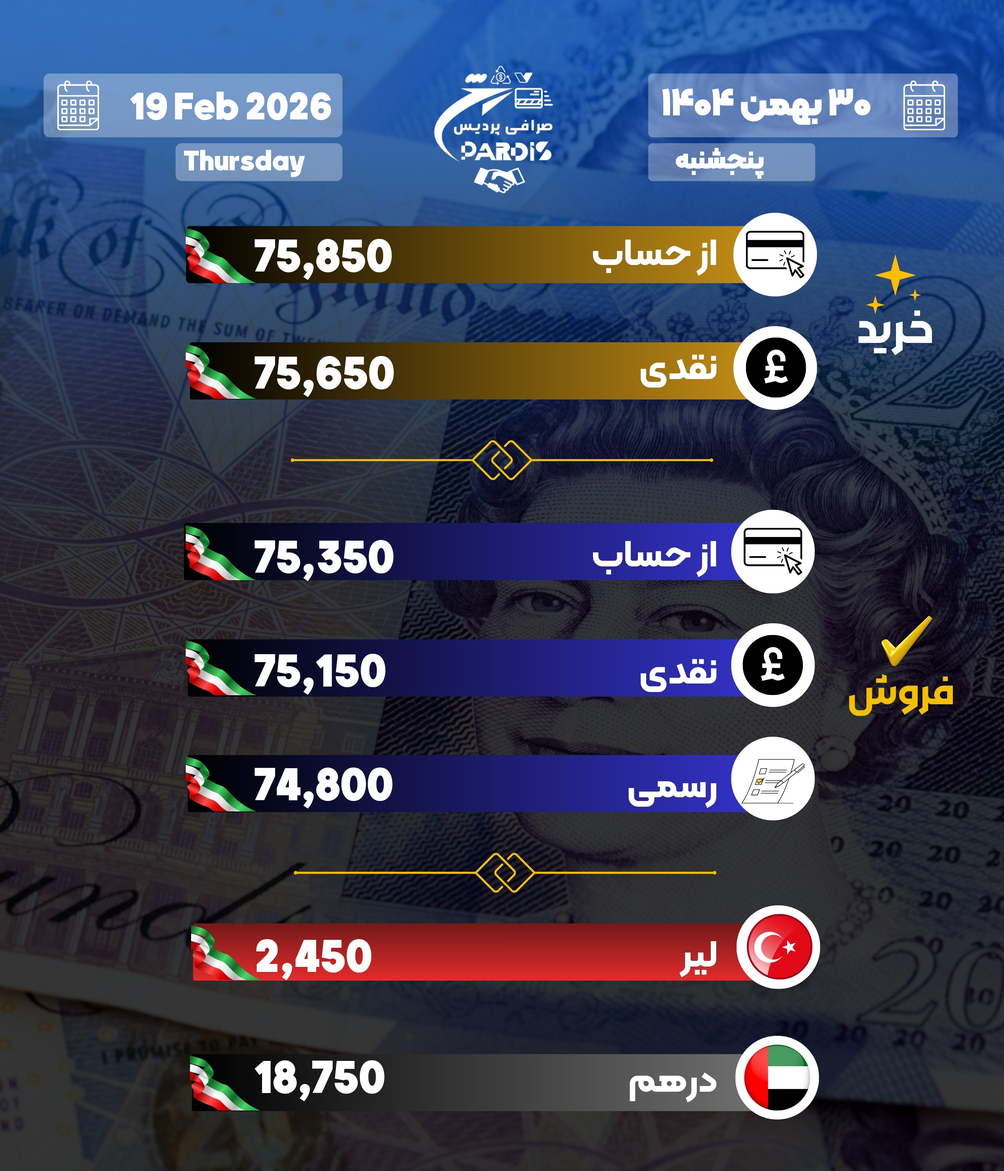
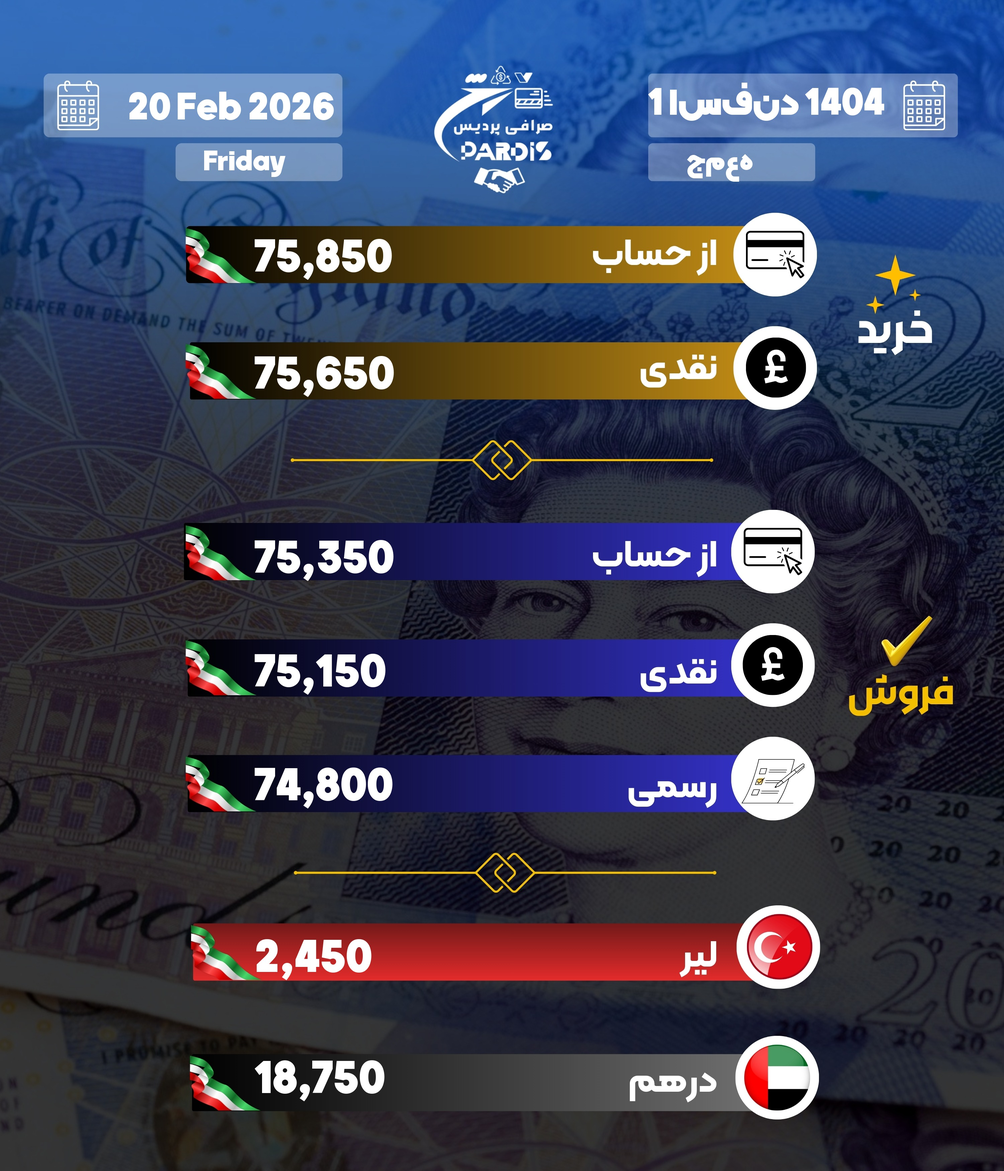
Update font settings in legacy category renderer to use Kalameh.ttf and change text color to white for improved visibility

Changed region(s): [[0.651, 0.0623, 0.899, 0.1557], [0.124, 0.0623, 0.341, 0.1246], [0.186, 0.1246, 0.31, 0.1557]]

diff --git a/price_publisher/services/legacy_category_renderer.py b/price_publisher/services/legacy_category_renderer.py
@@ -281,10 +281,10 @@ def _get_rotating_background():
 
 def _load_fonts():
     fonts = {
-        "farsi_date": ImageFont.truetype(str(FONT_ROOT / "Kalameh_farsi_thin.ttf"), 110),
-        "farsi_weekday": ImageFont.truetype(str(FONT_ROOT / "Kalameh_farsi_thin.ttf"), 80),
-        "eng_date": ImageFont.truetype(str(FONT_ROOT / "Kalameh_farsi_thin.ttf"), 110),
-        "eng_weekday": ImageFont.truetype(str(FONT_ROOT / "Kalameh_farsi_thin.ttf"), 80),
+        "farsi_date": ImageFont.truetype(str(FONT_ROOT / "Kalameh.ttf"), 110),
+        "farsi_weekday": ImageFont.truetype(str(FONT_ROOT / "Kalameh.ttf"), 80),
+        "eng_date": ImageFont.truetype(str(FONT_ROOT / "Kalameh.ttf"), 110),
+        "eng_weekday": ImageFont.truetype(str(FONT_ROOT / "Kalameh.ttf"), 80),
         "stop": ImageFont.truetype(str(FONT_ROOT / "Morabba.ttf"), 115),
         "call": ImageFont.truetype(str(FONT_ROOT / "Morabba.ttf"), 100),
     }
@@ -315,11 +315,11 @@ def _draw_dates(draw_ctx: ImageDraw.ImageDraw, fonts, now):
     # Persian date + weekday in top-right box
     _draw_centered(
         draw_ctx, _reshape_rtl(farsi_date_str), fonts["farsi_date"],
-        *DATE_BOX_POSITIONS["farsi_date"], fill="black",
+        *DATE_BOX_POSITIONS["farsi_date"], fill="white",
     )
     _draw_centered(
         draw_ctx, _reshape_rtl(farsi_weekday), fonts["farsi_weekday"],
-        *DATE_BOX_POSITIONS["farsi_weekday"], fill="black",
+        *DATE_BOX_POSITIONS["farsi_weekday"], fill="white",
     )
 
     # English date + weekday in top-left box
@@ -328,11 +328,11 @@ def _draw_dates(draw_ctx: ImageDraw.ImageDraw, fonts, now):
     eng_date_str = f"{eng_day} {now.strftime('%b')} {eng_year}"
     _draw_centered(
         draw_ctx, eng_date_str, fonts["eng_date"],
-        *DATE_BOX_POSITIONS["eng_date"], fill="black",
+        *DATE_BOX_POSITIONS["eng_date"], fill="white",
     )
     _draw_centered(
         draw_ctx, now.strftime("%A"), fonts["eng_weekday"],
-        *DATE_BOX_POSITIONS["eng_weekday"], fill="black",
+        *DATE_BOX_POSITIONS["eng_weekday"], fill="white",
     )
 
 
